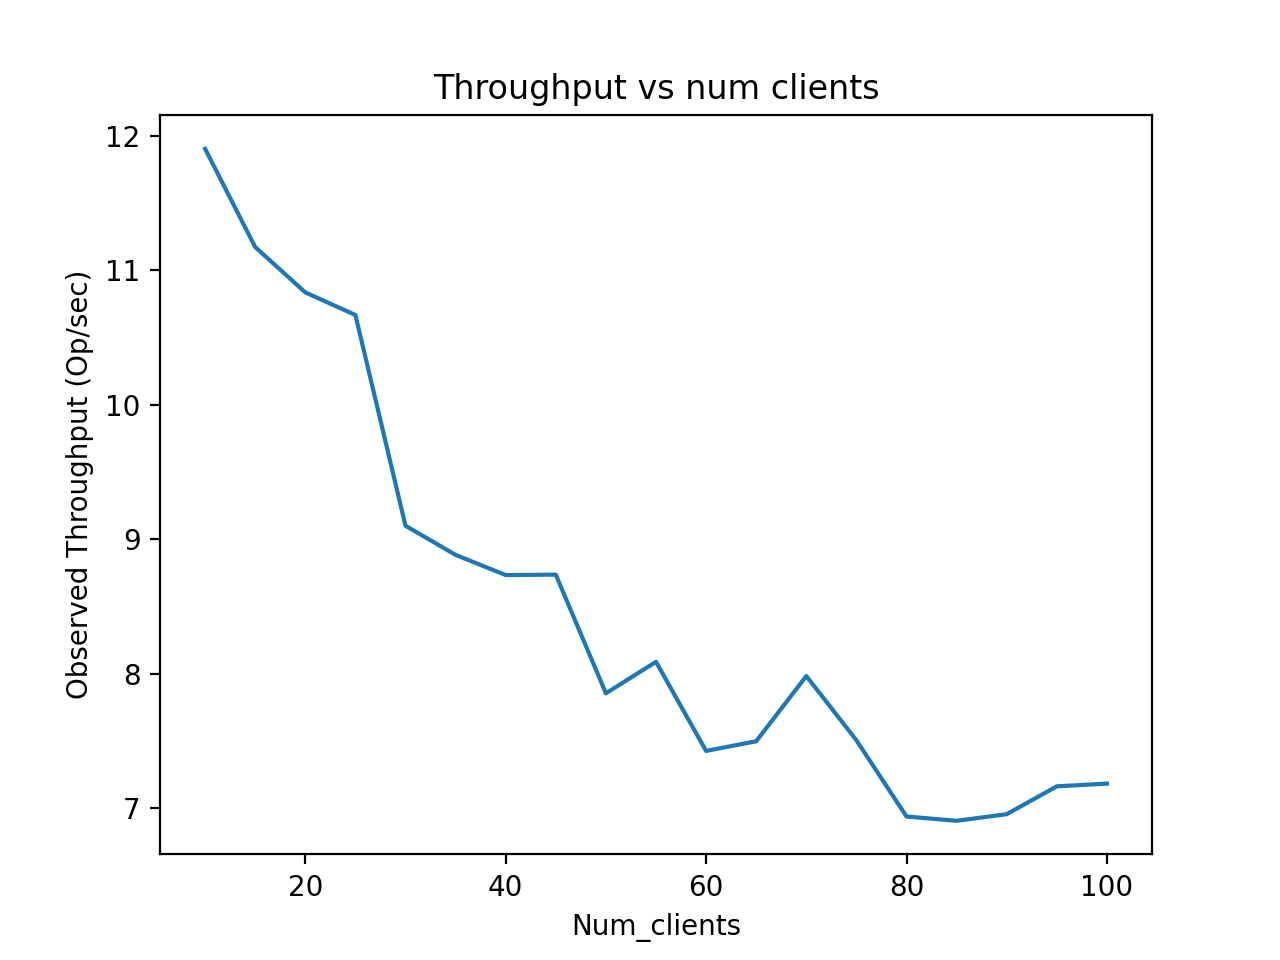
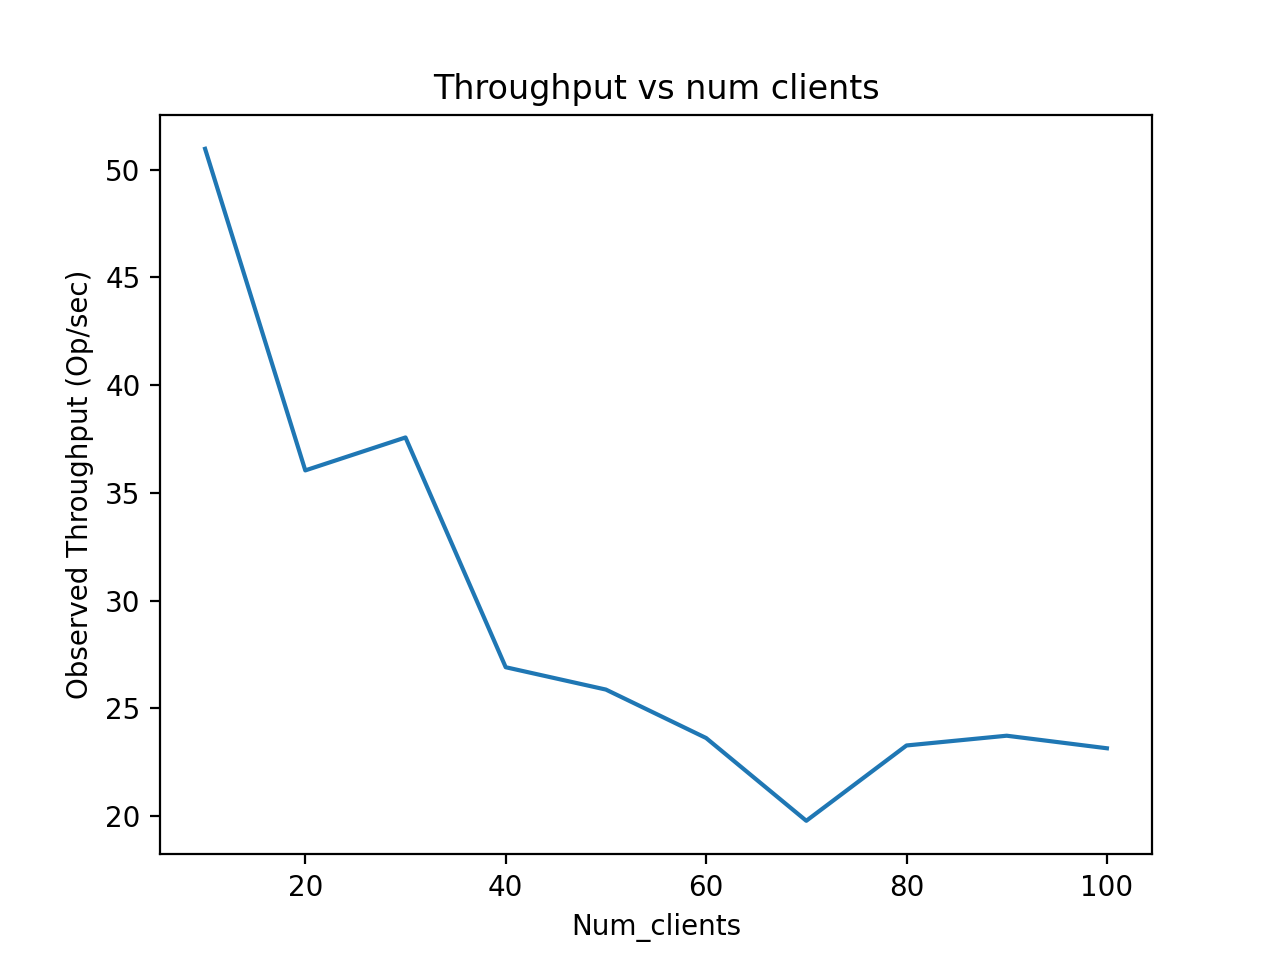
all changes

diff --git a/client/measure_perf.py b/client/measure_perf.py
@@ -11,7 +11,7 @@ import numpy as np
 
 import client
 
-NUM_OPS_PER_CLIENT = 10
+NUM_OPS_PER_CLIENT = 20
 
 sys.path.append('../')
 
@@ -42,9 +42,9 @@ def measure_get(key):
 def run_put_exp():
     latencies, batch_throughputs = [], []
 
-    points = [1, 2, 4, 8]
+    points = [1, 2, 4]
     # points = [1,2]
-    points.extend([i for i in range(10, 26, 2)])
+    points.extend([i for i in range(10, 31, 5)])
     # points.extend([i for i in range(10, 41, 10)])
     num_ops = 100
     for thread_count in points:
@@ -68,28 +68,33 @@ def run_put_exp():
     return x, y, latency_stats
 
 # Zipfian operation.
-def zipfian_op(write_per):
-    # Get key using zipfian distribution.
-    key = f'key-{np.random.choice(np.arange(1, 101), p=probs)}'
-    value = f'value-{random.randint(1, 1001)}'
+def zipfian_op(write_per): 
+    num_ops = 100
+    lat = []
 
-    # 
-    op_choice = np.random.randint(1, 101)
-    if op_choice < write_per:
-        print("write call")
-        # Perform write operation.
-        time1 = time()
-        client.send_nil_ext_put(key, value)
-        time2 = time()
+    for i in range(num_ops):
+        # Get key using zipfian distribution.
+        key = f'key-{np.random.choice(np.arange(1, 101), p=probs)}'
+        value = f'value-{random.randint(1, 1001)}'
 
-        return time2 - time1
-    else:
-        print("get call")
-        time1 = time()
-        client.send_get(key)
-        time2 = time()
+        op_choice = np.random.randint(1, 101)
+        if op_choice < write_per:
+            # print("write call")
+            # Perform write operation.
+            time1 = time()
+            client.send_put(key, value)
+            time2 = time()
 
-        return time2 - time1
+            lat.append(time2 - time1)
+        else:
+            # print("get call")
+            time1 = time()
+            client.send_get(key)
+            time2 = time()
+
+            lat.append(time2 - time1)
+
+    return lat
 
 # Zipfian operation.
 def uniform_op(write_per):
@@ -112,7 +117,7 @@ def run_mixed_exp():
     num_clients = 1
     num_ops = 100
 
-    points = [i for i in range(10, 101, 5)]
+    points = [i for i in range(10, 101, 10)]
     for write_per in points:
         batch = []
         print(f"Collecting Mixed stats for {write_per} percentage")
@@ -121,11 +126,12 @@ def run_mixed_exp():
             key = f"KEY-{random.randint(1, pow(10, 10))}"
             value = f"Value-{random.randint(1, pow(10, 10))}"
             t1 = time()
-            future_calls = {executor.submit(zipfian_op, write_per) for _ in range(num_ops)}
+            future_calls = {executor.submit(zipfian_op, write_per) for _ in range(num_clients)}
             for completed_task in as_completed(future_calls):
-                batch.append(completed_task.result())
+                batch.extend(completed_task.result())
             t2 = time()
-            batch_throughputs.append((write_per, num_ops / (t2 - t1)))
+            batch_throughputs.append((write_per, num_ops * num_clients / (t2 - t1)))
+            print(f"Throughput {batch_throughputs[-1]}")
         latencies.append((write_per, batch))
 
     x, y = zip(*batch_throughputs)
@@ -217,7 +223,7 @@ def plot_put_data(file_prefix):
     plt.clf()
 
     plt.figure(dpi=200)
-    plt.plot(avg_throughputs, median_lat)
+    plt.plot(avg_throughputs, median_lat, marker = 'D')
     
     plt.title("Throughput vs Latency")
     plt.xlabel("Throughput")
@@ -226,8 +232,8 @@ def plot_put_data(file_prefix):
     plt.clf()
 
 if __name__ == '__main__':
-    collect_stats(run_put_exp, "PUT")
-    plot_put_data("PUT")
+    # collect_stats(run_put_exp, "PUT")
+    # plot_put_data("PUT")
 
-    # collect_stats(run_mixed_exp, "MIXED")
-    # plot_put_data("MIXED")
+    collect_stats(run_mixed_exp, "MIXED")
+    plot_put_data("MIXED")
